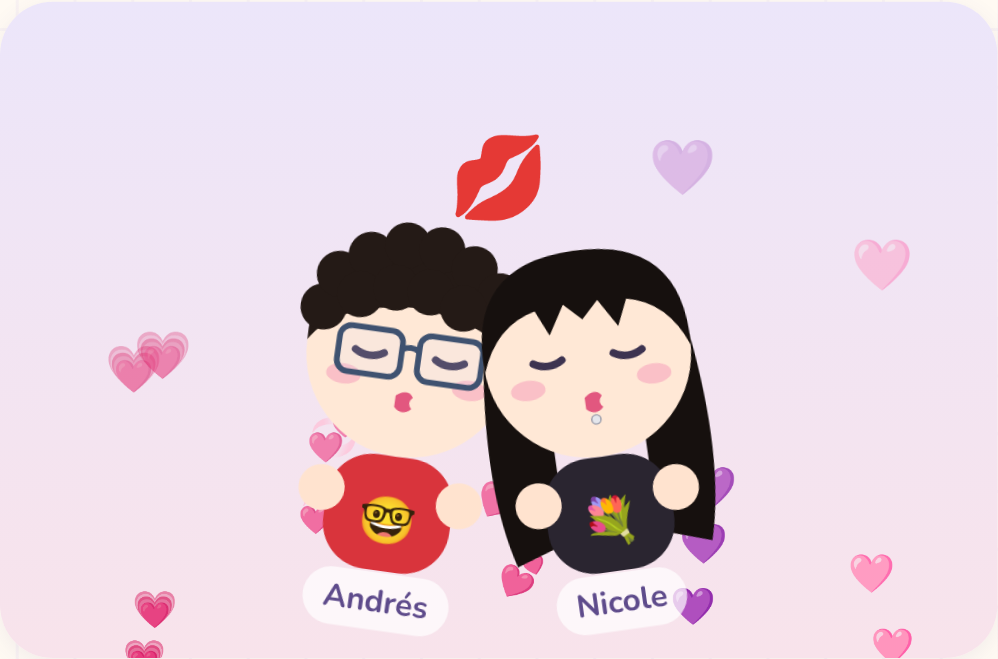
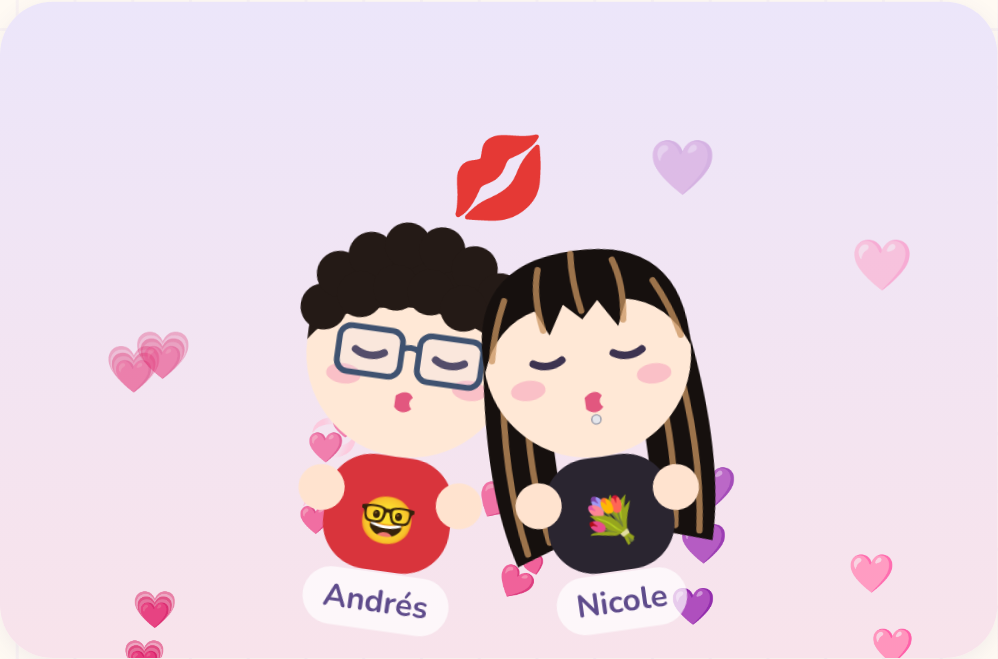
Ships: mechas caramelo para Nicole
Claude-Session: https://claude.ai/code/session_01DUTKc2G7JwUcKAgUwEJx8U

diff --git a/src/pages/Ships.tsx b/src/pages/Ships.tsx
@@ -78,11 +78,17 @@ export function Chibi({ m, mood = 'happy', size = 120 }: { m: ShipMember; mood?:
   return (
     <svg viewBox="0 0 100 130" width={size} height={size * 1.3} aria-hidden="true" className="chibi-svg">
       {m.style === 'long' && <path d="M14 46 Q8 90 16 118 L34 112 L34 70 L66 70 L66 112 L84 118 Q92 90 86 46Z" fill={m.hair} />}
+      {m.style === 'long' && m.highlights && (
+        <path d="M20 52 Q15 85 20 114 M80 52 Q85 85 80 114 M27 60 Q24 86 28 111 M73 60 Q76 86 72 111" stroke={m.highlights} strokeWidth="2.2" fill="none" strokeLinecap="round" opacity="0.75" />
+      )}
       <rect x="28" y="84" width="44" height="40" rx="16" fill={m.outfit} />
       <circle cx="26" cy="98" r="8" fill="#ffe3cf" />
       <circle cx="74" cy="98" r="8" fill="#ffe3cf" />
       <circle cx="50" cy="48" r="36" fill="#ffe8d6" />
       <Hair m={m} />
+      {m.highlights && (
+        <path d="M37 17 Q34 26 36 38 M63 17 Q66 26 64 38 M49 13 Q48 22 50 33 M24 26 Q19 36 17 46 M76 26 Q81 36 83 46" stroke={m.highlights} strokeWidth="2.2" fill="none" strokeLinecap="round" opacity="0.75" />
+      )}
       <Eyes mood={mood} />
       <ellipse cx="28" cy="58" rx="6" ry={mood === 'blush' ? 5 : 3.5} fill="#f6a5bd" opacity={mood === 'blush' ? 0.95 : 0.6} />
       <ellipse cx="72" cy="58" rx="6" ry={mood === 'blush' ? 5 : 3.5} fill="#f6a5bd" opacity={mood === 'blush' ? 0.95 : 0.6} />

diff --git a/src/lib/ships.ts b/src/lib/ships.ts
@@ -10,6 +10,7 @@ export interface ShipMember {
   bts?: boolean;
   glasses?: boolean;
   labret?: boolean;
+  highlights?: string;
 }
 
 export const SHIP_MEMBERS: ShipMember[] = [
@@ -22,7 +23,7 @@ export const SHIP_MEMBERS: ShipMember[] = [
   { id: 'jk', name: 'Jung Kook', emoji: '🐰', hair: '#2f2a3a', outfit: '#3d3350', style: 'fluffy' },
   // Ellos dos, dibujados a partir de sus fotos.
   { id: 'andres', name: 'Andrés', emoji: '🤓', hair: '#241a16', outfit: '#d9343c', style: 'curly', glasses: true },
-  { id: 'nicole', name: 'Nicole', emoji: '💐', hair: '#16100e', outfit: '#2a2530', style: 'long', labret: true },
+  { id: 'nicole', name: 'Nicole', emoji: '💐', hair: '#16100e', outfit: '#2a2530', style: 'long', labret: true, highlights: '#c99460' },
 ];
 
 export const BTS_IDS = ['rm', 'jin', 'suga', 'jhope', 'jimin', 'v', 'jk'];
